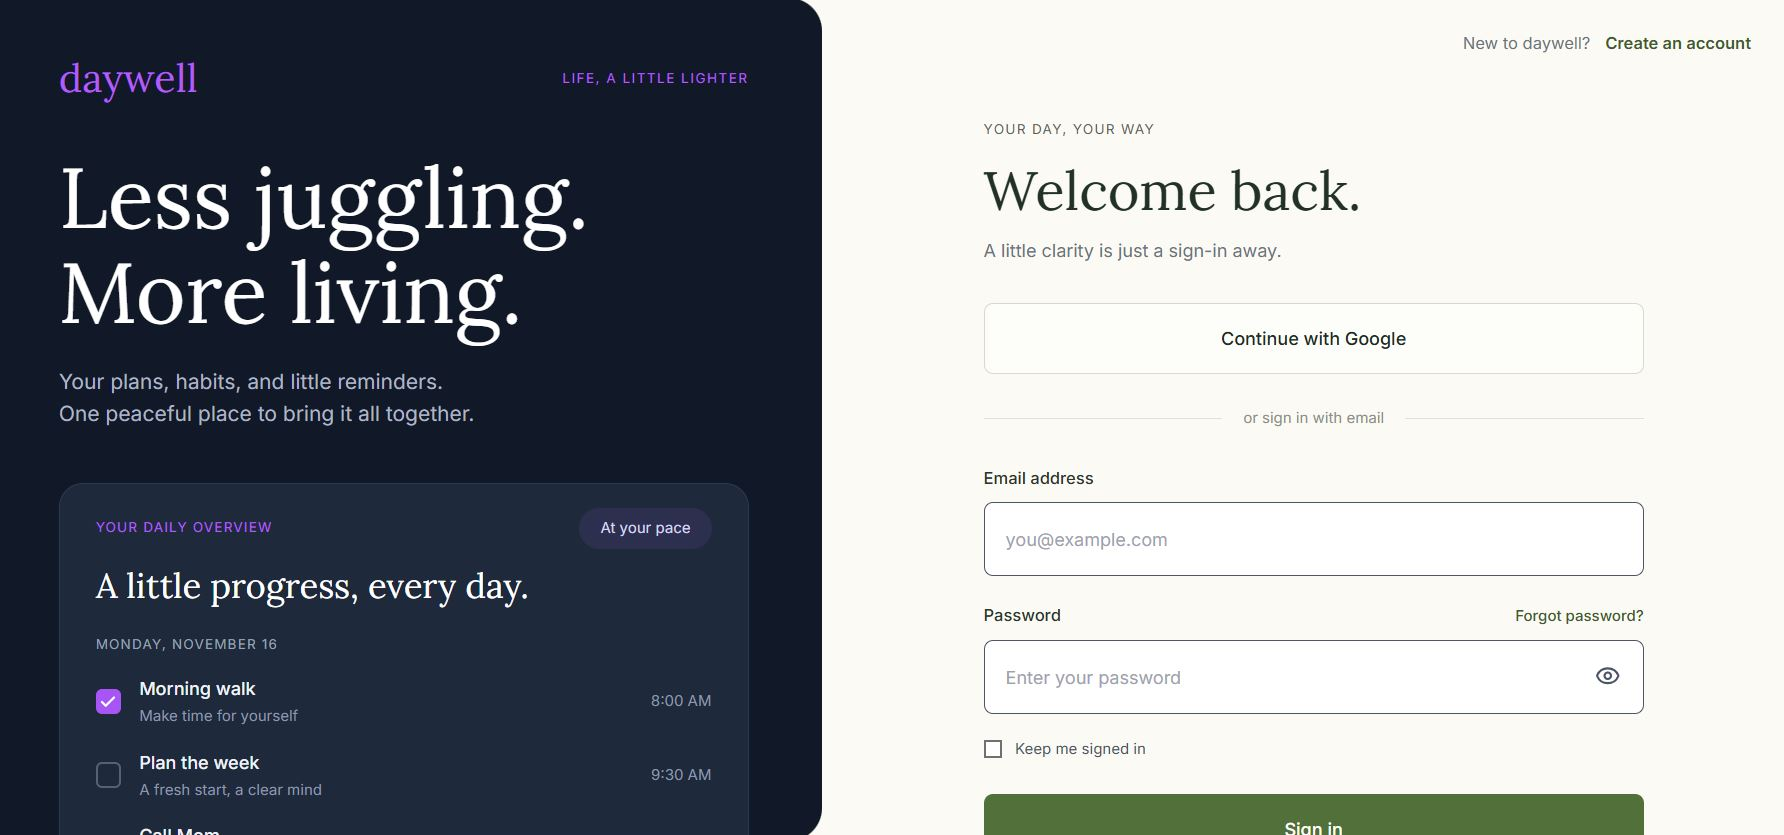
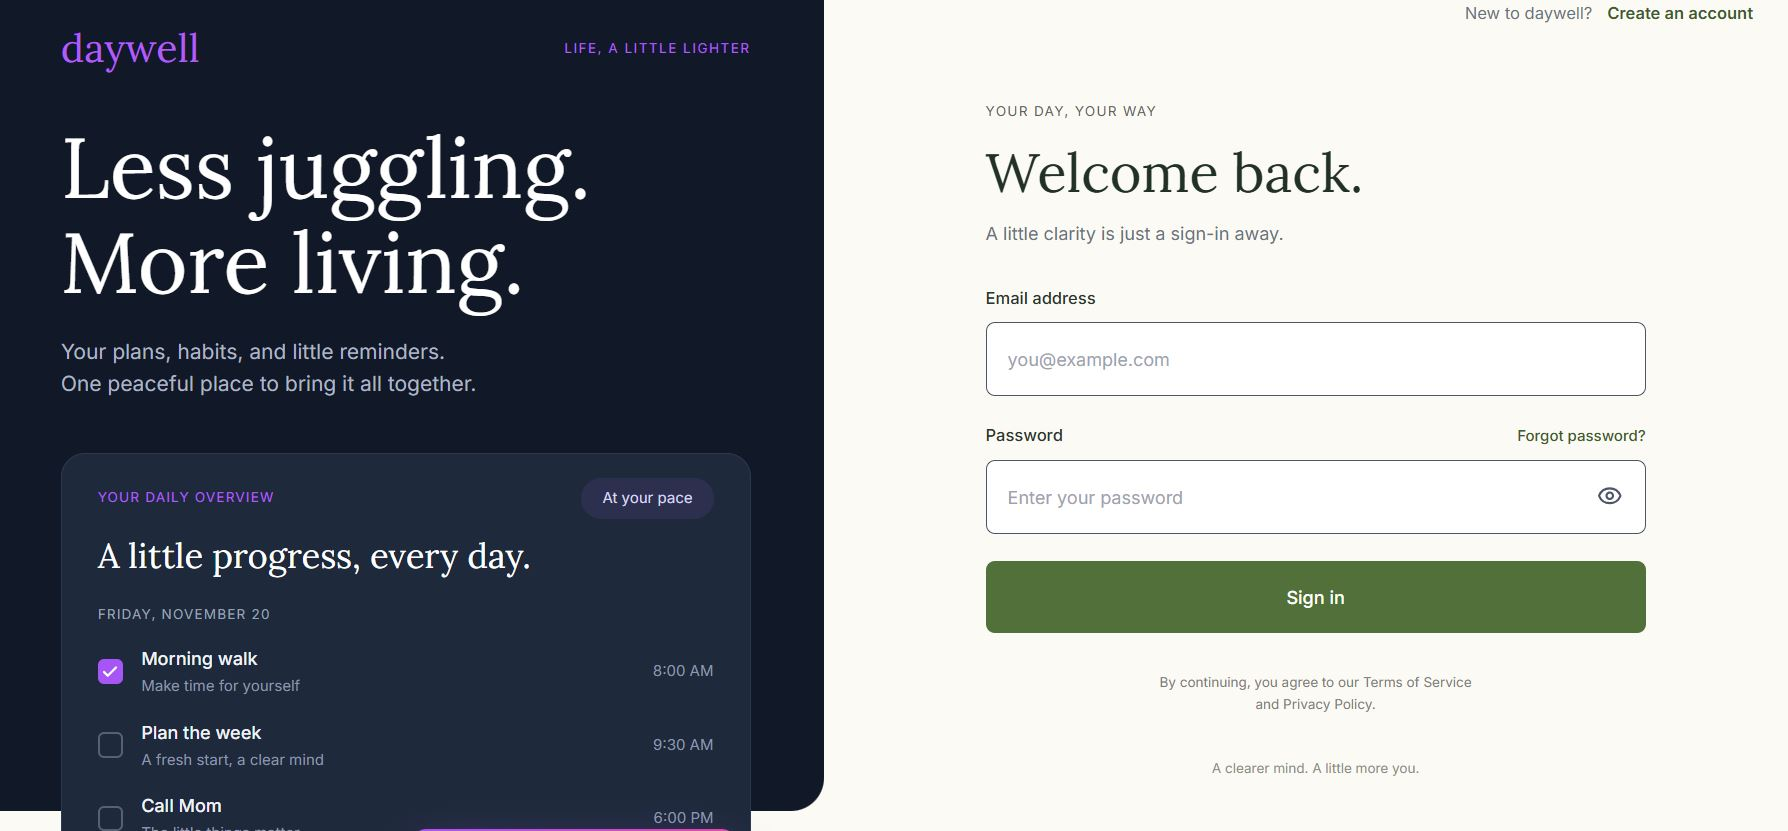
Replace login screenshot

diff --git a/front/src/Login.jsx b/front/src/Login.jsx
@@ -205,15 +205,7 @@ function Login() {
       <p className="dw-eyebrow">Your day, your way</p>
       <h1 className="dw-title">Welcome back.</h1>
       <p className="dw-sub">A little clarity is just a sign-in away.</p>
-
-      <button type="button" className="dw-btn-outline" onClick={handleGoogle}>
-        Continue with Google
-      </button>
-
-      <div className="dw-divider">
-        <span>or sign in with email</span>
-      </div>
-
+    
       <label className="dw-label" htmlFor="login-email">
         Email address
       </label>
